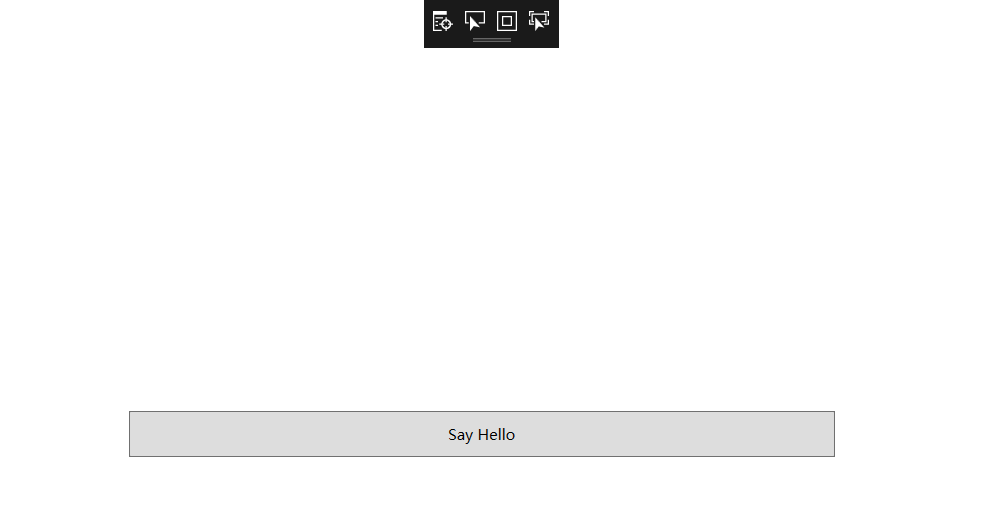
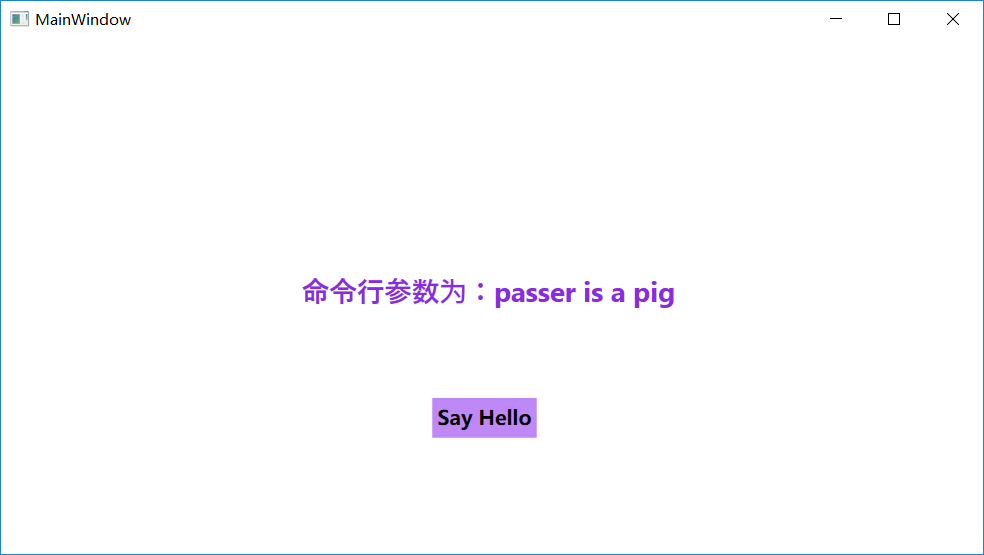
命令行输入参数，会出现弹窗以及在界面显示出来（更改了字体和颜色）

diff --git a/WpfHelloWorld/WpfHelloWorld/MainWindow.xaml b/WpfHelloWorld/WpfHelloWorld/MainWindow.xaml
@@ -8,14 +8,14 @@
         Title="MainWindow" Height="450" Width="800">
     <Grid>
         <Button Content="Say Hello" HorizontalAlignment="Center" Margin="345,288,357,93" VerticalAlignment="Center" Width="90" Click="Button_Click" 
-                HorizontalContentAlignment="Center" VerticalContentAlignment="Center" Height="38"/>
+                HorizontalContentAlignment="Center" VerticalContentAlignment="Center" Height="38" FontSize="16" FontWeight="Bold" Background="#FFBF88F7"/>
         <TextBlock HorizontalAlignment="Center" VerticalAlignment="Center"
-                   Margin="320,86,332,287" Height="46" Width="140" RenderTransformOrigin="0.5,0.5"
-                   Text="Hello World!" TextWrapping="Wrap" TextAlignment="Center" FontSize="20"
-                   Name="textBlock1" Visibility="Hidden"/>
+                   Margin="284,93,298.6,248" Height="79" Width="211" RenderTransformOrigin="0.5,0.5"
+                   Text="Hello World!" TextWrapping="Wrap" TextAlignment="Center" FontSize="34"
+                   Name="textBlock1" FontWeight="Bold" Foreground="BlueViolet" FontFamily="./#仿宋_GB2312" Visibility="Hidden"/>
         <TextBlock HorizontalAlignment="Center" VerticalAlignment="Center" Margin="0,0,0,0" 
-                   TextWrapping="Wrap" Text="命令行参数为：" TextAlignment="Center"
-                   Height="30" Width="772" Name="textBlock2"/>
+                   TextWrapping="Wrap" Text="命令行参数为：" TextAlignment="Center" FontSize="22"
+                   Height="30" Width="772" Name="textBlock2" Foreground="BlueViolet" FontWeight="Bold" FontFamily="./#仿宋_GB2312"/>
 
     </Grid>
 </Window>
